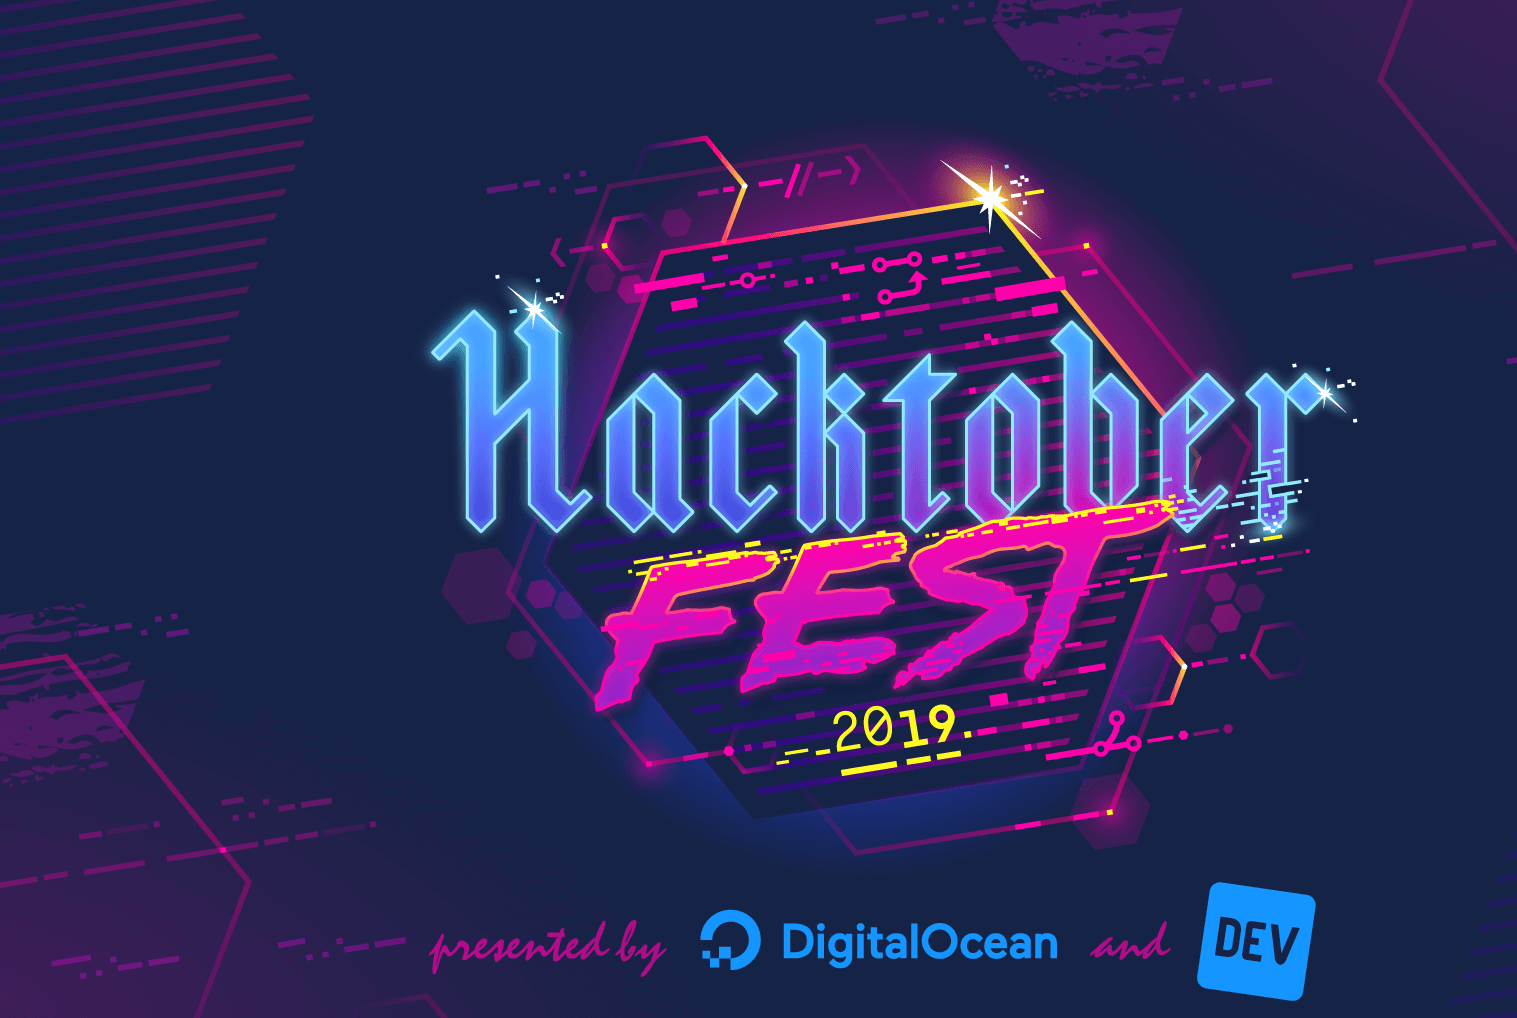
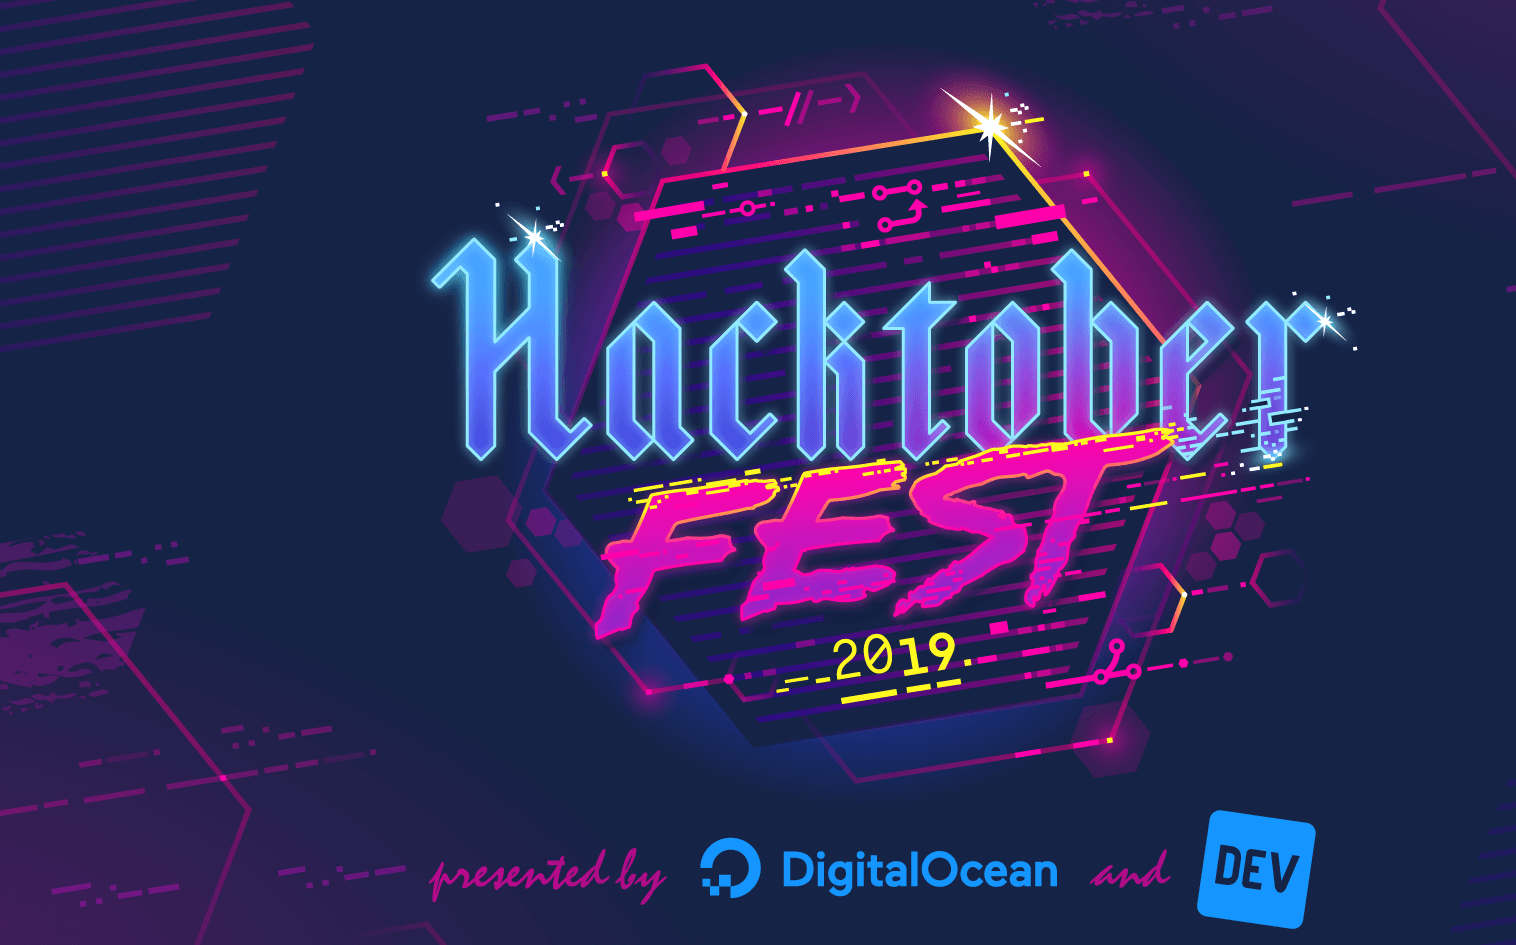
Repositioned the background

diff --git a/index.html b/index.html
@@ -95,7 +95,7 @@
                                         </div><!-- .countdown-holder -->
                                     </div><!-- .countdown -->
 
-                                    <h2 class="entry-title wow bounceInLeft"  data-wow-duration="2s" data-wow-delay="1s" style="font-size: 52px;" ><br>Hacktober Fest 2k19</h2>
+                                    <h2 class="entry-title wow bounceInLeft"  data-wow-duration="2s" data-wow-delay="1s" style="font-size: 48px;" ><br>Hacktober Fest 2k19</h2>
                                 <div class="entry-footer">
                                     <a class="btn gradient-bg wow flipInX" data-wow-duration="2s" data-wow-delay="1.5s" href="#">Register Here</a>
                                 </div><!-- .entry-footer" -->
